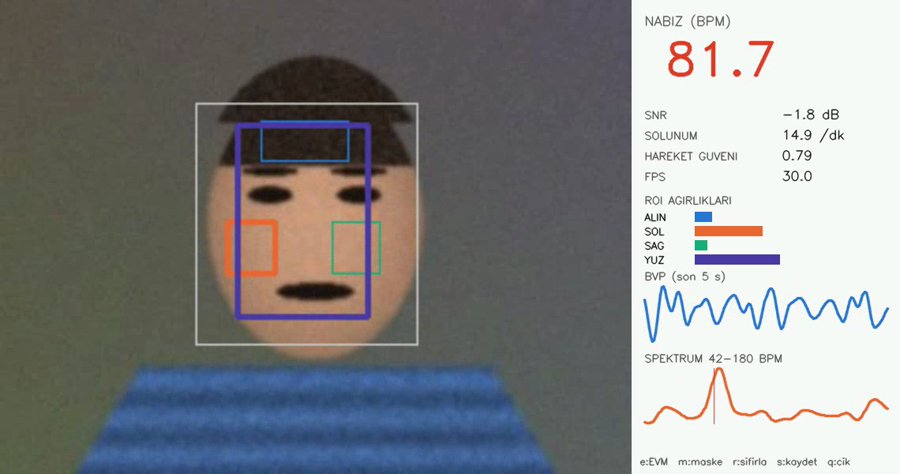
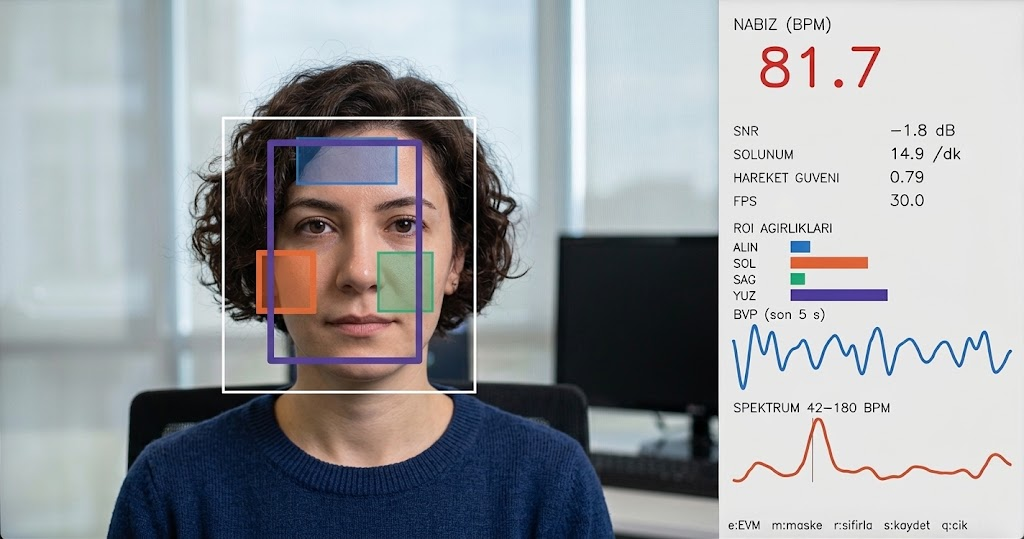
README: canlı demo görselini güncelle

diff --git a/README.md b/README.md
@@ -7,7 +7,7 @@ Sıradan bir webcam ile, yüze hiçbir şey takmadan **nabız (BPM)** ve **solun
 ![Sistem akışı](docs/sistem_akisi.png)
 
 ![Canlı demo](docs/canli_demo.png)
-*Canlı demo (sentetik "hepsi birden" senaryosu): alın saçla örtülü ve sağ yanağa renkli ışık vuruyor; sistem ağırlığı sol yanağa ve tüm yüze kaydırıyor.*
+*Canlı demo arayüzü: yüz ve ROI kutuları (alın, sol/sağ yanak, tüm yüz), anlık nabız, SNR, solunum, hareket güveni, ROI ağırlıkları, son 5 s BVP sinyali ve 42–180 BPM spektrumu.*
 
 ---
 
